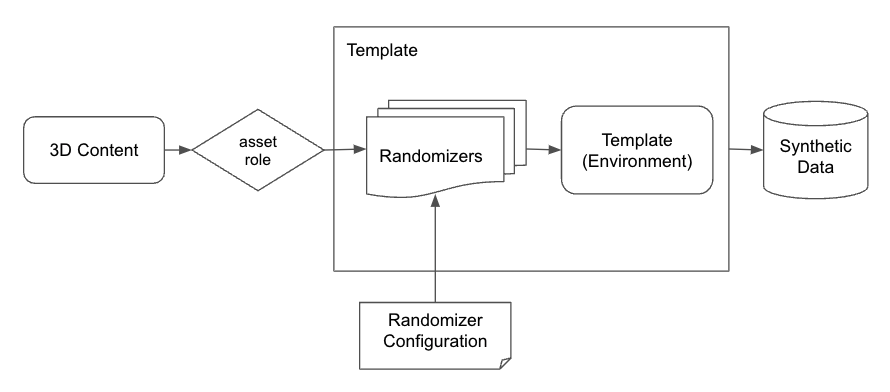
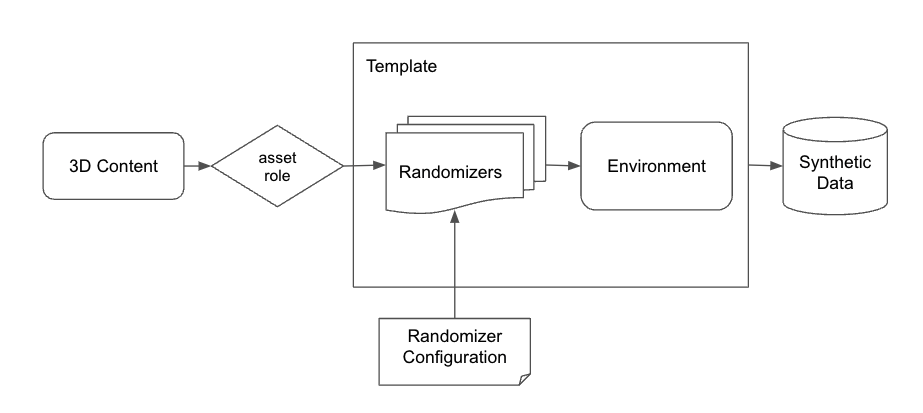
add ucvd overview doc

Changed region(s): [[0.0303, 0.0612, 1.0, 0.949], [0.5461, 0.7653, 0.5764, 0.7959]]

diff --git a/docs/how-ucvd-works.md b/docs/how-ucvd-works.md
@@ -3,3 +3,23 @@
 <p align="center">
 <image src="images/ucvd-overview.png" width="600">
 </p>
+
+### Domain Randomization
+
+Deep learning in the computer vision area always needs a large amount of data, while there hardly exist such datasets in many industrial applications for reasons of data privacy, confidentiality, and others. Synthetic data provides a way to achieve clean, unlimited, and high-quality datasets so that machine learning models can be well-trained in the synthetic domain. The model trained with synthetic data is known to have a domain gap to the real world. Domain randomization aims to create variability in the datasets in order to enhance the training of deep neural networks. The randomization forces the neural network to learn the essential features of the object of interest and help to generalize the model to real-world applications.
+
+Unity Computer Vision datasets (UCVD) service utilizes the [Unity Perception package](https://github.com/Unity-Technologies/com.unity.perception) to generate large-scale datasets with domain randomization. The package randomizes the parameters of the environment ("Template") and objects ("Assets") in the scene based on predefined rules and distributions ("Randomizers"). Some of the randomizations include the placement of the camera, the pose and scale of objects, the lighting in the scene, and so on. In each iteration, UCVD uses a set of randomizers to place the assets into the environment and randomize the parameters in the scene. At the end of every iteration, an image will be captured from the camera in the scene and stored with ground-truth information about the labeled objects.
+
+Read [this tutorial](https://github.com/Unity-Technologies/com.unity.perception/blob/main/com.unity.perception/Documentation~/Randomization/Index.md) for more information about the domain randomization in UCVD and Unity Perception package.
+
+### Template
+
+The UCVD **template** is a Unity project pre-built to help bootstrap your generation work. It contains two components for the synthetic data generation: the environment and randomizers. The **environment** is the 3D models in the background of generated images, like home interior or retail shelves, where the assets and objects are placed.
+
+The **randomizer** is a set of rules that defines the placement of assets in the environment and varies the parameters of the scene in each frame, such as the color of lighting and scales of objects. The randomizers are configurable. You can customize the range of parameters in the configuration and the parameters will be randomized with the given distribution in each image. Read [this document](https://github.com/Unity-Technologies/com.unity.perception/blob/main/com.unity.perception/Documentation~/Randomization/Index.md#randomizers) for more information about the randomizers.
+
+### Asset and Asset Role
+
+**Assets** are 3D models of the objects of interest that you want to be in the environment and rendered as part of the dataset. They could be the objects that your computer vision models are trained to detect. At this time, UCVD only accepts FBX files with embedded textures and animations as assets. The assets can be uploaded as public if you want all UCVD users to view and use them; otherwise, you can keep them private to yourself. Each asset can have **labels**, and UCVD will capture the ground-truth information along with each captured frame. Read [this tutorial](create-ucvd-assets.md) for more information about creating 3D content and assets on UCVD.
+
+Assets and randomizers are linked by **Asset Roles** that are defined in the template. Before generating the synthetic dataset, each randomizer is going to find all the assets attached with a certain asset role so that it will only randomize the parameters of those assets. For example, there are two randomizers in a template. One randomizer varies the pose of objects with the "dog" role, and the other varies the pose of objects with the "cat" role. The first randomizer will only randomize parameters of the objects with the "dog" role, and the second randomizer only randomize the "cat"-role object. If an asset has both roles, it will be randomized by both randomizers. For more information about the asset role, read [the data generation tutorial](dataset-generation-and-configuration.md) of the Indoor Pet Detection.
